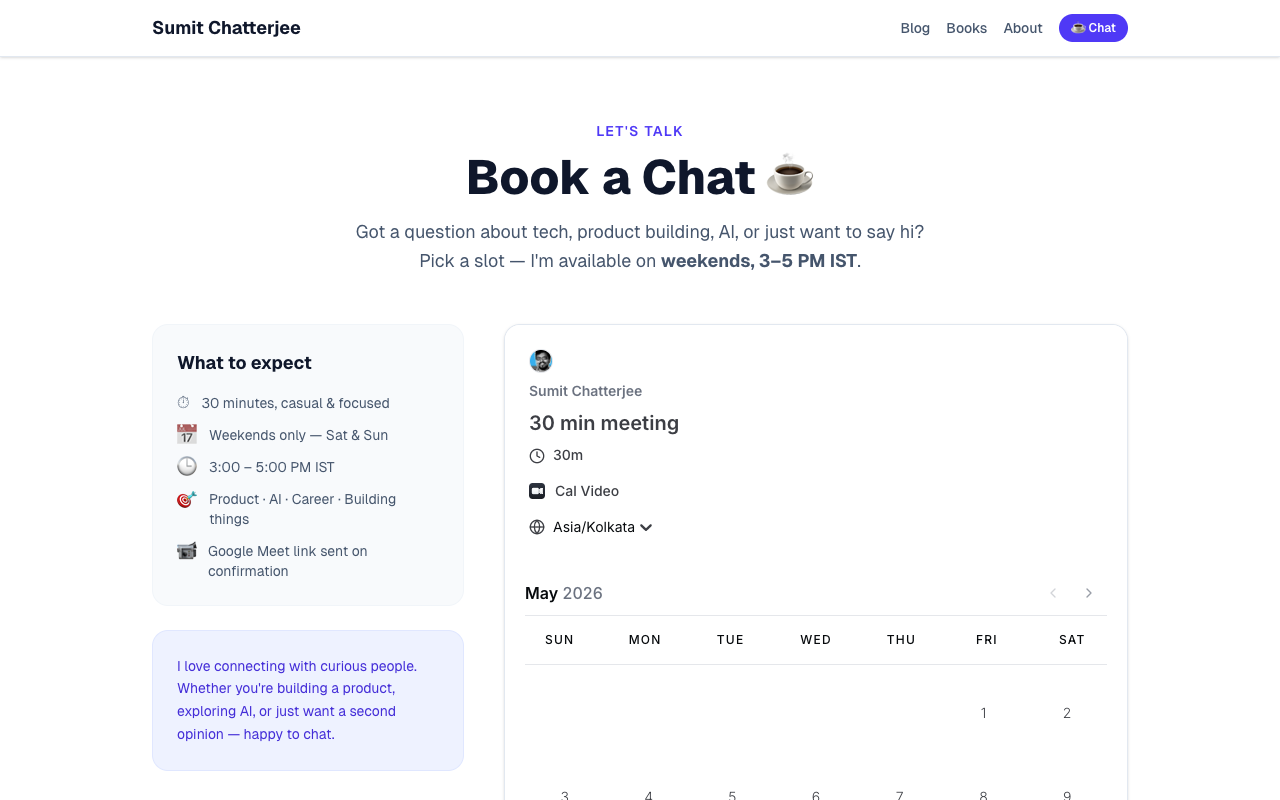
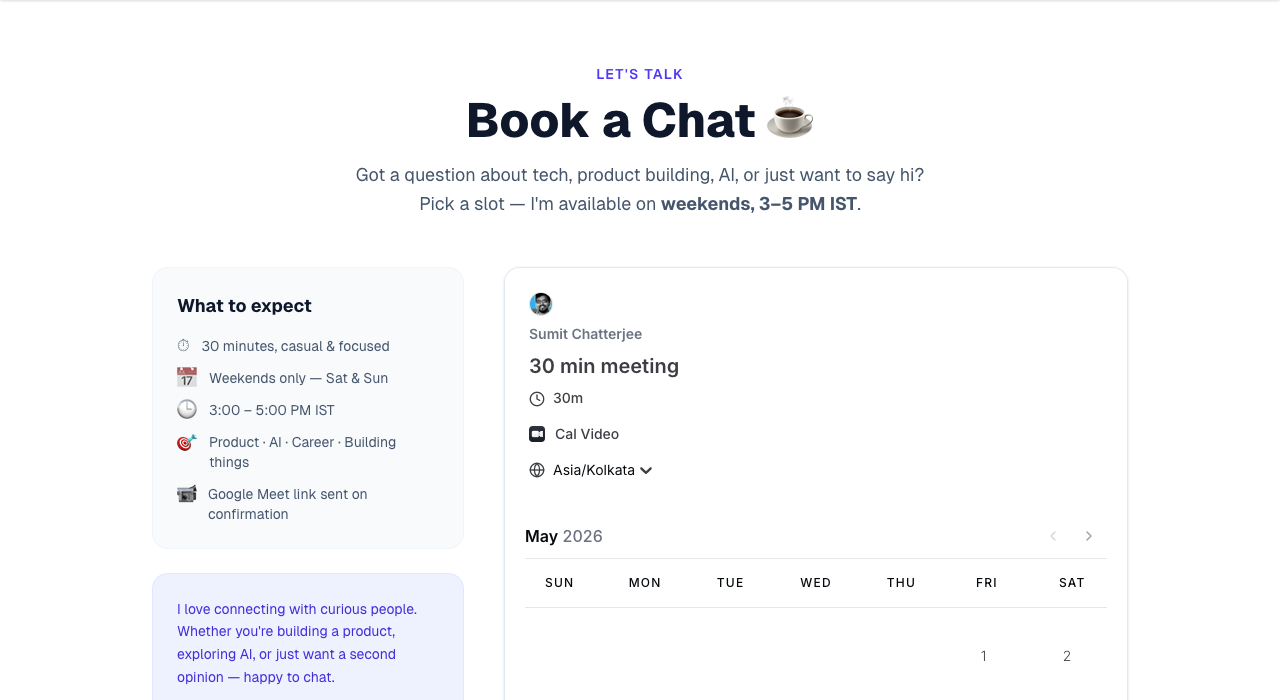
Fix booking copy and replace connect screenshot with cropped version

diff --git a/2026-05-13-building-website-with-ai/blog-post.md b/2026-05-13-building-website-with-ai/blog-post.md
@@ -38,7 +38,7 @@ A few tricks that saved time:
 
 The real surprise came *after* the launch. Because I'd saved all styling preferences and decisions as a reusable Copilot CLI skill, every update became trivial:
 
-- **Booking page** (Cal.com + Google Calendar): one conversation, 20 min
+- **Booking page** (Cal.com + Google Calendar): one conversation, one deploy
 - **Consistent tag colours** across blog cards: one instruction
 - **Nav cleanup**, CTA placement, RSS sync: each a single `git push`
 
